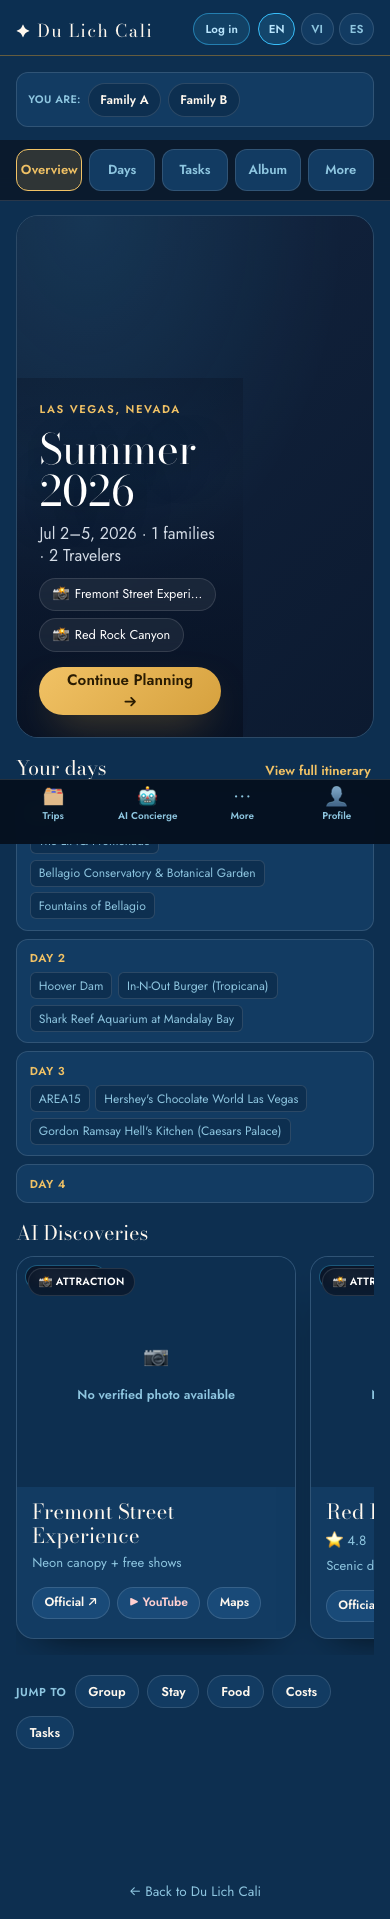
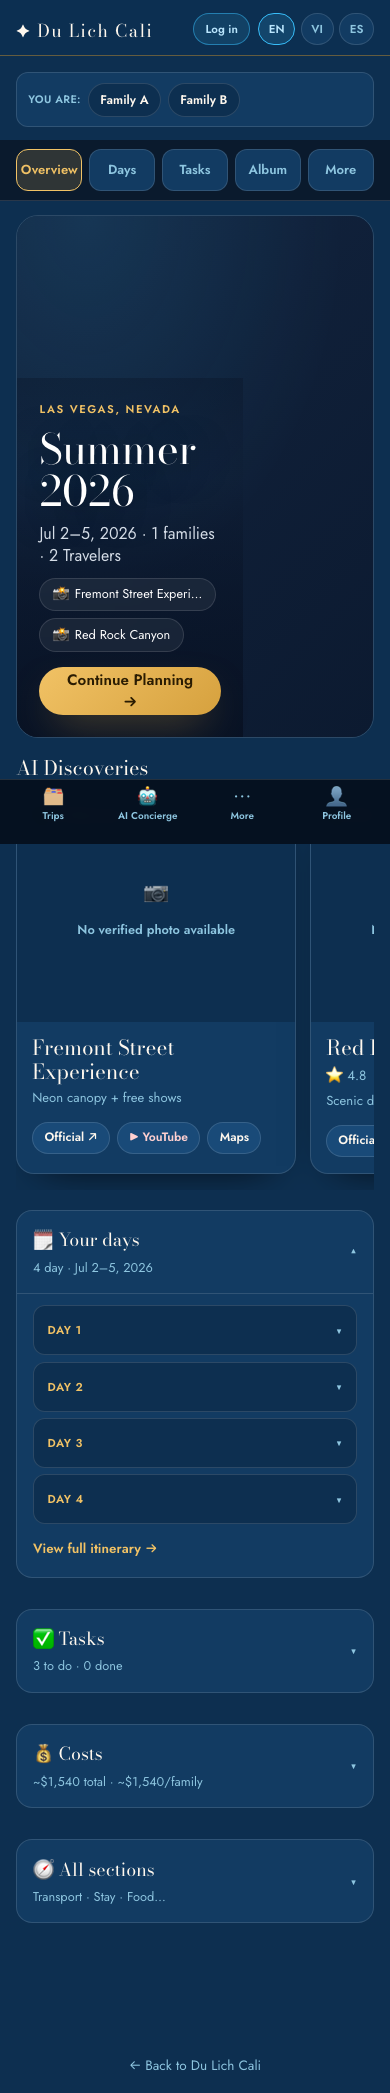
feat(travel-concierge): V5 P1 — collapsible centers + experience-first reorder
Discoveries moved up (right after Highlights); Timeline→collapsed Day N▼ rows
(<details>, sibling auto-collapse, deep-link preserved); separate collapsed
Task Center (relocated readiness/next-action + priority rows) and Cost Center
(computeTripCosts/computeBalances: estimated/paid/remaining/per-person); Details
collapsible replaces the redundant quick-links row; localStorage-persisted open
state. i18n ovToDo/ovDone/ovTotalLc/ovFamilyLc/ovEstimated/ovRemaining ×3.
Smoke: 4 collapses, 4 day rows, quick-links gone, discoveries-before-logistics, 0 errors.

diff --git a/travel-concierge.js b/travel-concierge.js
@@ -105,6 +105,7 @@
       season_spring: 'Spring', season_summer: 'Summer', season_fall: 'Fall', season_winter: 'Winter',
       tab_days: 'Days', tab_tasks: 'Tasks', tab_more: 'More', moreNavTitle: 'All sections', continuePlanning: 'Continue Planning',
       navTrips: 'Trips', navConcierge: 'AI Concierge', navShare: 'Share', navProfile: 'Profile', mustSee: 'Must See', topPick: 'Top Pick',
+      ovToDo: 'to do', ovDone: 'done', ovTotalLc: 'total', ovFamilyLc: 'family', ovEstimated: 'Estimated', ovRemaining: 'Remaining',
       tab_itinerary: 'Itinerary', tab_arrival: 'Family Arrival Plan', tab_group: 'Group',
       tab_journey: 'Journey', journeyTitle: 'Your journey', journeySub: 'Every stop, stay and ride as a node. Lock what you love 🔒 — the AI only replans around it.', jnNoPlan: 'Generate the trip first — your journey timeline appears here.', jnLock: 'Lock', jnUnlock: 'Unlock', jnLocked: 'Locked', jnImprove: 'Improve around this', jnImproving: 'Replanning this day (keeping locked items)…', jnAddAfter: 'Add after', jnReplanDay: 'Replan this day', jnReplanKeep: 'keeps 🔒 locked', jnReplanned: 'Day replanned — locked items kept', jnTransportNode: 'Transport', jnViewTransport: 'Compare transport', jnNodeMenu: 'Options', jnAddPh: 'Add a place / activity', jnAdd: 'Add',
       cmdPh: 'Tell the concierge what to change…', cmdGo: 'Ask AI', cmdBusy: 'Understanding your request…', cmdPlanTitle: 'Here’s what I’ll change', cmdNone: 'I couldn’t turn that into an edit — try rephrasing (e.g. “skip the zoo”, “add Disneyland day 2”, “find another Vietnamese dinner”).', cmdFail: 'Couldn’t interpret that right now — try again.', cmdDays: 'Replans day {d}', cmdApply: 'Apply changes', cmdApplied: 'Trip updated', cmdCancel: 'Cancel',
@@ -387,6 +388,7 @@
       season_spring: 'Mùa xuân', season_summer: 'Mùa hè', season_fall: 'Mùa thu', season_winter: 'Mùa đông',
       tab_days: 'Ngày', tab_tasks: 'Nhiệm vụ', tab_more: 'Thêm', moreNavTitle: 'Tất cả mục', continuePlanning: 'Tiếp tục lên kế hoạch',
       navTrips: 'Chuyến đi', navConcierge: 'Trợ lý AI', navShare: 'Chia sẻ', navProfile: 'Tài khoản', mustSee: 'Nên xem', topPick: 'Lựa chọn hàng đầu',
+      ovToDo: 'cần làm', ovDone: 'xong', ovTotalLc: 'tổng', ovFamilyLc: 'gia đình', ovEstimated: 'Ước tính', ovRemaining: 'Còn lại',
       tab_itinerary: 'Lịch trình', tab_arrival: 'Kế Hoạch Đến Nơi', tab_group: 'Nhóm',
       tab_journey: 'Hành trình', journeyTitle: 'Hành trình của bạn', journeySub: 'Mỗi điểm dừng, nơi ở và chuyến xe là một nút. Khóa thứ bạn thích 🔒 — AI chỉ tối ưu xung quanh.', jnNoPlan: 'Hãy tạo chuyến đi trước — dòng thời gian hành trình sẽ hiện ở đây.', jnLock: 'Khóa', jnUnlock: 'Mở khóa', jnLocked: 'Đã khóa', jnImprove: 'Cải thiện quanh mục này', jnImproving: 'Đang lên lại ngày này (giữ mục đã khóa)…', jnAddAfter: 'Thêm sau', jnReplanDay: 'Lên lại ngày này', jnReplanKeep: 'giữ 🔒 đã khóa', jnReplanned: 'Đã lên lại ngày — giữ mục đã khóa', jnTransportNode: 'Di chuyển', jnViewTransport: 'So sánh di chuyển', jnNodeMenu: 'Tùy chọn', jnAddPh: 'Thêm địa điểm / hoạt động', jnAdd: 'Thêm',
       cmdPh: 'Nói cho trợ lý biết bạn muốn đổi gì…', cmdGo: 'Hỏi AI', cmdBusy: 'Đang hiểu yêu cầu của bạn…', cmdPlanTitle: 'Đây là những thay đổi tôi sẽ làm', cmdNone: 'Tôi chưa chuyển được thành chỉnh sửa — hãy thử diễn đạt lại (vd: “bỏ sở thú”, “thêm Disneyland ngày 2”, “tìm bữa tối Việt khác”).', cmdFail: 'Hiện chưa hiểu được — vui lòng thử lại.', cmdDays: 'Lên lại ngày {d}', cmdApply: 'Áp dụng thay đổi', cmdApplied: 'Đã cập nhật chuyến đi', cmdCancel: 'Hủy',
@@ -664,6 +666,7 @@
       season_spring: 'Primavera', season_summer: 'Verano', season_fall: 'Otoño', season_winter: 'Invierno',
       tab_days: 'Días', tab_tasks: 'Tareas', tab_more: 'Más', moreNavTitle: 'Todas las secciones', continuePlanning: 'Seguir planeando',
       navTrips: 'Viajes', navConcierge: 'Concierge IA', navShare: 'Compartir', navProfile: 'Perfil', mustSee: 'Imprescindible', topPick: 'Top',
+      ovToDo: 'por hacer', ovDone: 'hecho', ovTotalLc: 'total', ovFamilyLc: 'familia', ovEstimated: 'Estimado', ovRemaining: 'Restante',
       tab_itinerary: 'Itinerario', tab_arrival: 'Plan de Llegada', tab_group: 'Grupo',
       tab_journey: 'Recorrido', journeyTitle: 'Tu recorrido', journeySub: 'Cada parada, alojamiento y viaje como un nodo. Bloquea lo que te gusta 🔒 — la IA solo replanifica alrededor.', jnNoPlan: 'Genera el viaje primero — tu línea de tiempo aparecerá aquí.', jnLock: 'Bloquear', jnUnlock: 'Desbloquear', jnLocked: 'Bloqueado', jnImprove: 'Mejorar alrededor de esto', jnImproving: 'Replanificando este día (manteniendo lo bloqueado)…', jnAddAfter: 'Agregar después', jnReplanDay: 'Replanificar este día', jnReplanKeep: 'mantiene 🔒 bloqueado', jnReplanned: 'Día replanificado — se mantuvo lo bloqueado', jnTransportNode: 'Transporte', jnViewTransport: 'Comparar transporte', jnNodeMenu: 'Opciones', jnAddPh: 'Agregar un lugar / actividad', jnAdd: 'Agregar',
       cmdPh: 'Dile al concierge qué cambiar…', cmdGo: 'Preguntar a la IA', cmdBusy: 'Entendiendo tu solicitud…', cmdPlanTitle: 'Esto es lo que cambiaré', cmdNone: 'No pude convertirlo en una edición — reformula (ej. “omite el zoológico”, “agrega Disneyland día 2”, “busca otra cena vietnamita”).', cmdFail: 'No se pudo interpretar ahora — inténtalo de nuevo.', cmdDays: 'Replanifica el día {d}', cmdApply: 'Aplicar cambios', cmdApplied: 'Viaje actualizado', cmdCancel: 'Cancelar',
@@ -4259,28 +4262,8 @@
       wrap.appendChild(hsec);
     }
 
-    // ── Block 3: Daily Timeline preview (collapsed; deep-links into Itinerary) ──
-    var days = (plan.days || []);
-    if (days.length) {
-      var tsec = el('section', 'tc-ov-sec');
-      var thead = el('div', 'tc-ov-sec__head');
-      thead.appendChild(el('h2', 'tc-ov-sec__t', t('ovTimeline')));
-      var viewIt = el('button', 'tc-ov-sec__more', t('ovViewItinerary')); viewIt.type = 'button';
-      viewIt.addEventListener('click', function () { state.activeTab = 'itinerary'; state.activeDay = 0; render(); });
-      thead.appendChild(viewIt);
-      tsec.appendChild(thead);
-      var tl = el('div', 'tc-ov-tl');
-      days.slice(0, 5).forEach(function (d, i) { tl.appendChild(ovTimelineRow(d, i)); });
-      if (days.length > 5) {
-        var moreRow = el('button', 'tc-ov-tl__more', '+' + (days.length - 5) + ' ' + t('day').toLowerCase()); moreRow.type = 'button';
-        moreRow.addEventListener('click', function () { state.activeTab = 'itinerary'; state.activeDay = 5; render(); });
-        tl.appendChild(moreRow);
-      }
-      tsec.appendChild(tl);
-      wrap.appendChild(tsec);
-    }
-
-    // ── Block 4: AI Discoveries rail (live highlights; image-first) ──
+    // ── AI Discoveries rail — right after Highlights (both dominant, image-first; inspiration
+    //    BEFORE logistics). Live highlights only; honest images. ──
     var hl = (plan && plan.liveHighlights && plan.liveHighlights.length) ? plan.liveHighlights : ((tr && tr.liveHighlights) || []);
     if (hl.length) {
       var dsec = el('section', 'tc-ov-sec');
@@ -4294,17 +4277,122 @@
       wrap.appendChild(dsec);
     }
 
-    // ── Block 5: Quick links to the remaining tabs (true hub) ──
-    var qsec = el('section', 'tc-ov-sec tc-ov-quick');
-    qsec.appendChild(el('span', 'tc-ov-quick__k', t('ovQuickLinks')));
-    [['group', 'tab_group'], ['stay', 'tab_stay'], ['food', 'tab_food'], ['costs', 'tab_costs'], ['bookings', 'tab_bookings']].forEach(function (p) {
-      var b = el('button', 'tc-ov-quick__b', t(p[1])); b.type = 'button';
-      b.addEventListener('click', function () { state.activeTab = p[0]; render(); });
-      qsec.appendChild(b);
+    // ── Logistics, COLLAPSED (experience first): Timeline → Tasks → Costs → Details. ──
+    var days = (plan.days || []);
+    if (days.length) {
+      var tcol = ovCollapse('timeline', '🗓 ' + t('ovTimeline'), days.length + ' ' + t('day').toLowerCase() + ((plan.dateRange || tr.dateRange) ? (' · ' + (plan.dateRange || tr.dateRange)) : ''), true);
+      var tlBody = el('div', 'tc-ov-collapse__body');
+      var dl = el('div', 'tc-ov-days');
+      days.forEach(function (d, i) { dl.appendChild(ovDayDetails(d, i)); });
+      tlBody.appendChild(dl);
+      var viewIt = el('button', 'tc-ov-collapse__cta', t('ovViewItinerary') + ' →'); viewIt.type = 'button';
+      viewIt.addEventListener('click', function () { state.activeTab = 'itinerary'; state.activeDay = 0; render(); });
+      tlBody.appendChild(viewIt);
+      tcol.appendChild(tlBody);
+      wrap.appendChild(tcol);
+    }
+
+    // Task Center (collapsed) — relocated readiness/next-action + priority-ordered task rows.
+    var tasks = []; try { tasks = deriveTripTasks(tr) || []; } catch (e) { tasks = tr.bookings || []; }
+    if (tasks.length) {
+      var rdc = root.TCOverview.readiness(tasks), todoN = rdc.totalCount - rdc.doneCount;
+      var na = root.TCOverview.nextAction(tasks);
+      var taskCol = ovCollapse('tasks', '✅ ' + t('tab_tasks'), todoN + ' ' + t('ovToDo') + ' · ' + rdc.doneCount + ' ' + t('ovDone'), false);
+      var tkBody = el('div', 'tc-ov-collapse__body');
+      if (na) tkBody.appendChild(el('p', 'tc-ov-next', '→ ' + t('ovNext') + ': ' + na.title));
+      var PR = { P0: 0, P1: 1, P2: 2 };
+      tasks.slice().sort(function (a, b) { var p = (PR[a.priority] == null ? 2 : PR[a.priority]) - (PR[b.priority] == null ? 2 : PR[b.priority]); if (p) return p; return (a.dueDate ? String(a.dueDate) : '~') < (b.dueDate ? String(b.dueDate) : '~') ? -1 : 1; })
+        .slice(0, 8).forEach(function (tk) { tkBody.appendChild(ovTaskRow(tk)); });
+      var allTasks = el('button', 'tc-ov-collapse__cta', t('tab_tasks') + ' →'); allTasks.type = 'button';
+      allTasks.addEventListener('click', function () { state.activeTab = 'bookings'; render(); });
+      tkBody.appendChild(allTasks);
+      taskCol.appendChild(tkBody);
+      wrap.appendChild(taskCol);
+    }
+
+    // Cost Center (collapsed) — estimated/paid/remaining + per-family. Honest '~' on estimates.
+    var costs = null; try { costs = computeTripCosts(tr); } catch (e) {}
+    if (costs) {
+      var bal = null; try { if (root.TCTasks) bal = root.TCTasks.computeBalances(tasks, costs.perFamilies, costSplit(tr), costLedger(tr)); } catch (e) {}
+      var paid = bal ? bal.totalPaid : 0, remain = bal ? bal.remaining : costs.total.expected;
+      var perFamAvg = Math.round(costs.total.expected / (costs.perFamilies.length || 1));
+      var costCol = ovCollapse('costs', '💰 ' + t('tab_costs'), '~' + money(costs.total.expected) + ' ' + t('ovTotalLc') + ' · ~' + money(perFamAvg) + '/' + t('ovFamilyLc'), false);
+      var cBody = el('div', 'tc-ov-collapse__body');
+      var grid = el('div', 'tc-ov-costgrid');
+      [[t('ovEstimated'), '~' + money(costs.total.expected)], [t('costPaid'), money(paid)], [t('ovRemaining'), '~' + money(remain)], [t('costPerPerson'), '~' + money(costs.perPerson)]].forEach(function (cc) {
+        var cell = el('div', 'tc-ov-costcell'); cell.appendChild(el('span', 'tc-ov-costcell__l', cc[0])); cell.appendChild(el('span', 'tc-ov-costcell__v', cc[1])); grid.appendChild(cell);
+      });
+      cBody.appendChild(grid);
+      var allCost = el('button', 'tc-ov-collapse__cta', t('tab_costs') + ' →'); allCost.type = 'button';
+      allCost.addEventListener('click', function () { state.activeTab = 'costs'; render(); });
+      cBody.appendChild(allCost);
+      costCol.appendChild(cBody);
+      wrap.appendChild(costCol);
+    }
+
+    // Details (collapsed) — quiet entry points to the remaining surfaces (replaces the old quick-links row).
+    var detCol = ovCollapse('details', '🧭 ' + t('moreNavTitle'), t('tab_transport') + ' · ' + t('tab_stay') + ' · ' + t('tab_food') + '…', false);
+    var dBody = el('div', 'tc-ov-collapse__body');
+    [['transport', '🚐 ', 'tab_transport'], ['stay', '🏨 ', 'tab_stay'], ['food', '🍽 ', 'tab_food'], ['events', '🎉 ', 'tab_events'], ['group', '👥 ', 'tab_group']].forEach(function (it) {
+      var r = el('button', 'tc-ov-detrow', it[1] + t(it[2])); r.type = 'button';
+      r.appendChild(el('span', 'tc-ov-detrow__arr', '→'));
+      r.addEventListener('click', function () { state.activeTab = it[0]; render(); });
+      dBody.appendChild(r);
     });
-    wrap.appendChild(qsec);
+    detCol.appendChild(dBody);
+    wrap.appendChild(detCol);
 
     return wrap;
+  }
+  // ── V5 collapsible primitives (native <details>, localStorage-persisted open state) ──
+  function ovCollapseState(key, def) { try { var v = root.localStorage.getItem('tc_ov_' + key); if (v === '1') return true; if (v === '0') return false; } catch (e) {} return !!def; }
+  function ovCollapse(key, titleText, subText, defOpen) {
+    var d = el('details', 'tc-ov-collapse'); if (ovCollapseState(key, defOpen)) d.open = true;
+    var sm = el('summary', 'tc-ov-collapse__sum');
+    var lab = el('div', 'tc-ov-collapse__lab');
+    lab.appendChild(el('span', 'tc-ov-collapse__k', titleText));
+    if (subText) lab.appendChild(el('span', 'tc-ov-collapse__v', subText));
+    sm.appendChild(lab);
+    sm.appendChild(el('span', 'tc-ov-collapse__chev', '▾'));
+    d.appendChild(sm);
+    d.addEventListener('toggle', function () { try { root.localStorage.setItem('tc_ov_' + key, d.open ? '1' : '0'); } catch (e) {} });
+    return d;
+  }
+  // Collapsed day row (Day N ▼) — expand shows that day's places; sibling days auto-collapse; a
+  // "view full itinerary" deep-link preserved. Travel days show the travel label, never fabricated.
+  function ovDayDetails(d, i) {
+    var det = el('details', 'tc-ov-day');
+    var sm = el('summary', 'tc-ov-day__sum');
+    sm.appendChild(el('span', 'tc-ov-day__d', t('day') + ' ' + (i + 1)));
+    if (d.city) sm.appendChild(el('span', 'tc-ov-day__city', d.city));
+    if (d.isTravelDay || d.transferDay) sm.appendChild(el('span', 'tc-ov-day__travel', '🚗 ' + t('travelDay')));
+    sm.appendChild(el('span', 'tc-ov-day__chev', '▾'));
+    det.appendChild(sm);
+    var body = el('div', 'tc-ov-day__body');
+    var any = false;
+    (d.sections || []).forEach(function (sec) { (sec.places || []).forEach(function (p) { if (p && p.name) { any = true; var r = el('div', 'tc-ov-day__place'); r.appendChild(el('span', 'tc-ov-day__pic', '•')); r.appendChild(el('span', null, p.name)); body.appendChild(r); } }); });
+    if (!any) body.appendChild(el('p', 'tc-ov-day__empty', d.isTravelDay || d.transferDay ? t('travelDay') : (d.title || '')));
+    var go = el('button', 'tc-ov-day__open', t('ovViewItinerary') + ' →'); go.type = 'button';
+    go.addEventListener('click', function (e) { e.preventDefault(); state.activeTab = 'itinerary'; state.activeDay = i; render(); });
+    body.appendChild(go);
+    det.appendChild(body);
+    det.addEventListener('toggle', function () { if (det.open && det.parentNode) { var sibs = det.parentNode.querySelectorAll('details.tc-ov-day'); for (var k = 0; k < sibs.length; k++) if (sibs[k] !== det) sibs[k].open = false; } });
+    return det;
+  }
+  // Compact priority task row for the Overview Task Center. Status/due/cost/assignee — facts only.
+  function ovTaskRow(tk) {
+    var done = ({ booked: 1, paid: 1, skipped: 1, not_needed: 1 })[tk.status];
+    var row = el('div', 'tc-ov-task' + (done ? ' tc-ov-task--done' : ''));
+    var pri = el('span', 'tc-ov-task__pri tc-ov-task__pri--' + (done ? 'done' : String(tk.priority || 'P2').toLowerCase()));
+    pri.textContent = done ? '✓' : (tk.priority || 'P2');
+    row.appendChild(pri);
+    row.appendChild(el('span', 'tc-ov-task__t', tk.title || tk.name || ''));
+    var bits = [];
+    if (tk.dueDate) bits.push(tk.dueDate);
+    var cost = tk.actualCost || tk.costEstimate; if (cost) bits.push((tk.actualCost ? '' : '~') + String(cost).replace(/^\$?/, '$'));
+    if (tk.assignedToFamily) { var fam = ((state.trip.families || []).filter(function (f) { return f.id === tk.assignedToFamily; })[0] || {}); if (fam.name) bits.push(fam.name); }
+    if (bits.length) row.appendChild(el('span', 'tc-ov-task__meta', bits.join(' · ')));
+    return row;
   }
   function liveHighlightsBlock(plan) {
     var hl = (plan && plan.liveHighlights && plan.liveHighlights.length) ? plan.liveHighlights : ((state.trip && state.trip.liveHighlights) || []);

diff --git a/travel-concierge.css b/travel-concierge.css
@@ -1544,6 +1544,59 @@ select.tc-input { appearance: none; background-image: linear-gradient(45deg, tra
 @media (min-width: 1200px) {
   .tc-ov-card--lg { flex-basis: 31%; max-width: 380px; }
 }
+/* P1 — collapsible centers (Timeline / Tasks / Costs / Details) */
+.tc-ov-collapse { background: var(--navy-800); border: 1px solid var(--border); border-radius: 16px; overflow: hidden; }
+.tc-ov-collapse + .tc-ov-collapse { margin-top: .7rem; }
+.tc-ov-collapse__sum { list-style: none; cursor: pointer; padding: .95rem 1rem; display: flex; align-items: center; justify-content: space-between; gap: .6rem; }
+.tc-ov-collapse__sum::-webkit-details-marker { display: none; }
+.tc-ov-collapse__lab { display: flex; flex-direction: column; gap: .15rem; }
+.tc-ov-collapse__k { font-family: var(--font-d); font-size: 1.12rem; color: var(--cream); }
+.tc-ov-collapse__v { font-family: var(--font-b); font-size: .8rem; color: var(--muted); }
+.tc-ov-collapse__chev { color: var(--muted); transition: transform .2s; }
+.tc-ov-collapse[open] .tc-ov-collapse__chev { transform: rotate(180deg); }
+.tc-ov-collapse__body { padding: 0 1rem 1rem; border-top: 1px solid var(--border); }
+.tc-ov-collapse__cta { margin-top: .7rem; background: none; border: 0; color: var(--tc-gold); font-family: var(--font-b); font-weight: 600; font-size: .84rem; cursor: pointer; padding: .2rem 0; }
+/* collapsed day rows */
+.tc-ov-days { display: flex; flex-direction: column; gap: .4rem; margin-top: .7rem; }
+.tc-ov-day { background: var(--navy-900); border: 1px solid var(--border); border-radius: 12px; overflow: hidden; }
+.tc-ov-day__sum { list-style: none; cursor: pointer; padding: .7rem .85rem; display: flex; align-items: center; gap: .5rem; flex-wrap: wrap; }
+.tc-ov-day__sum::-webkit-details-marker { display: none; }
+.tc-ov-day__d { font-family: var(--font-b); font-weight: 700; font-size: .72rem; color: var(--tc-gold); text-transform: uppercase; letter-spacing: .04em; }
+.tc-ov-day__city { font-family: var(--font-d); font-size: 1rem; color: var(--cream); }
+.tc-ov-day__travel { font-family: var(--font-b); font-weight: 600; font-size: .72rem; color: var(--tc-accent2); }
+.tc-ov-day__chev { margin-left: auto; color: var(--muted); transition: transform .2s; }
+.tc-ov-day[open] .tc-ov-day__chev { transform: rotate(180deg); }
+.tc-ov-day__body { padding: 0 .85rem .8rem; }
+.tc-ov-day__place { display: flex; align-items: center; gap: .5rem; padding: .3rem 0; font-family: var(--font-b); font-size: .88rem; color: #cfd9ea; }
+.tc-ov-day__pic { color: var(--tc-gold); }
+.tc-ov-day__empty { font-family: var(--font-b); font-size: .84rem; color: var(--muted); margin: .3rem 0; }
+.tc-ov-day__open { margin-top: .4rem; background: none; border: 0; color: var(--tc-gold); font-family: var(--font-b); font-weight: 600; font-size: .8rem; cursor: pointer; padding: 0; }
+/* task rows */
+.tc-ov-next { font-family: var(--font-b); font-size: .86rem; color: var(--tc-gold); margin: .7rem 0 .4rem; }
+.tc-ov-task { display: flex; align-items: center; gap: .55rem; padding: .55rem 0; border-bottom: 1px solid var(--border); font-family: var(--font-b); font-size: .9rem; color: var(--cream); }
+.tc-ov-task:last-child { border-bottom: 0; }
+.tc-ov-task--done { opacity: .6; }
+.tc-ov-task__pri { flex: 0 0 auto; font-weight: 700; font-size: .62rem; padding: .16rem .42rem; border-radius: 6px; }
+.tc-ov-task__pri--p0 { background: rgba(251,146,60,.18); color: #fed7aa; }
+.tc-ov-task__pri--p1 { background: rgba(56,189,248,.16); color: #bae6fd; }
+.tc-ov-task__pri--p2 { background: var(--navy-700, var(--navy-900)); color: var(--muted); }
+.tc-ov-task__pri--done { background: rgba(132,204,22,.16); color: #d9f0a8; }
+.tc-ov-task__t { flex: 1; }
+.tc-ov-task__meta { color: var(--muted); font-size: .76rem; text-align: right; }
+/* cost grid */
+.tc-ov-costgrid { display: grid; grid-template-columns: 1fr 1fr; gap: .6rem; margin-top: .7rem; }
+.tc-ov-costcell { background: var(--navy-900); border: 1px solid var(--border); border-radius: 12px; padding: .7rem; display: flex; flex-direction: column; gap: .15rem; }
+.tc-ov-costcell__l { font-family: var(--font-b); font-size: .68rem; color: var(--muted); text-transform: uppercase; letter-spacing: .04em; }
+.tc-ov-costcell__v { font-family: var(--font-d); font-size: 1.25rem; color: var(--cream); }
+/* details rows */
+.tc-ov-detrow { width: 100%; display: flex; align-items: center; justify-content: space-between; padding: .7rem 0; border-bottom: 1px solid var(--border); background: none; border-left: 0; border-right: 0; border-top: 0; font-family: var(--font-b); font-size: .92rem; color: var(--cream); cursor: pointer; text-align: left; }
+.tc-ov-detrow:last-child { border-bottom: 0; }
+.tc-ov-detrow__arr { color: var(--muted); }
+
+@media (min-width: 768px) {
+  .tc-ov-costgrid { grid-template-columns: repeat(4, 1fr); }
+}
 @media (prefers-reduced-motion: reduce) {
   .tc-tabs { backdrop-filter: none; }
+  .tc-ov-collapse__chev, .tc-ov-day__chev { transition: none; }
 }

diff --git a/tests/live/v5-overview-smoke.js b/tests/live/v5-overview-smoke.js
@@ -43,7 +43,18 @@ const OURS = /tc-overview\.js|travel-concierge\.js/;
       tabLabels: Array.from(qa('.tc-tabs .tc-tab')).map(b => b.textContent),
       bigCards: qa('.tc-ov-card--lg').length,
       bottomNav: qa('.tc-bottomnav .tc-actionbar__btn').length,
-      bottomLabels: Array.from(qa('.tc-bottomnav .tc-actionbar__lbl')).map(b => b.textContent)
+      bottomLabels: Array.from(qa('.tc-bottomnav .tc-actionbar__lbl')).map(b => b.textContent),
+      // P1: collapsible centers + collapsed day rows; old redundant quick-links row must be gone
+      collapses: qa('.tc-ov-collapse').length,
+      dayRows: qa('.tc-ov-day').length,
+      quickLinksGone: !q('.tc-ov-quick'),
+      // experience-first order: Discoveries section appears before the first collapse (Timeline)
+      discoveriesBeforeLogistics: (function () {
+        var secs = Array.from(qa('.tc-ov > section, .tc-ov > details'));
+        var disc = secs.findIndex(n => /AI Discoveries|Descubrimientos|Khám phá/.test(n.textContent || ''));
+        var firstCol = secs.findIndex(n => n.classList && n.classList.contains('tc-ov-collapse'));
+        return disc !== -1 && firstCol !== -1 && disc < firstCol;
+      })()
     };
   });
 
@@ -57,7 +68,9 @@ const OURS = /tc-overview\.js|travel-concierge\.js/;
   console.log('OUR_ERRORS', ourErrors.length);
   ourErrors.slice(0, 6).forEach(e => console.log('  ! ' + e));
   const ok = c.heroTitle && c.eyebrow && !c.ring && !c.budget && c.statusChips === 0 &&
-    c.tabCount === 5 && c.teasers >= 1 && c.bigCards >= 1 && c.bottomNav === 4 && ourErrors.length === 0;
+    c.tabCount === 5 && c.teasers >= 1 && c.bigCards >= 1 && c.bottomNav === 4 &&
+    c.collapses >= 1 && c.dayRows >= 1 && c.quickLinksGone && c.discoveriesBeforeLogistics &&
+    ourErrors.length === 0;
   console.log(ok ? '\nSMOKE: PASS' : '\nSMOKE: FAIL');
   process.exit(ok ? 0 : 1);
 })().catch(e => { console.error('SMOKE: FAIL (exception)\n', e); process.exit(1); });